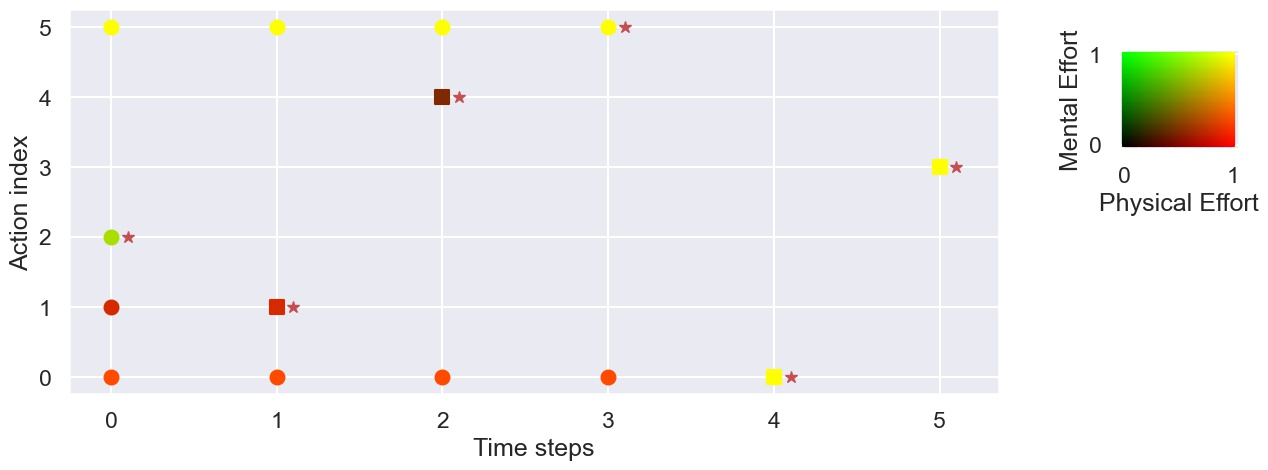
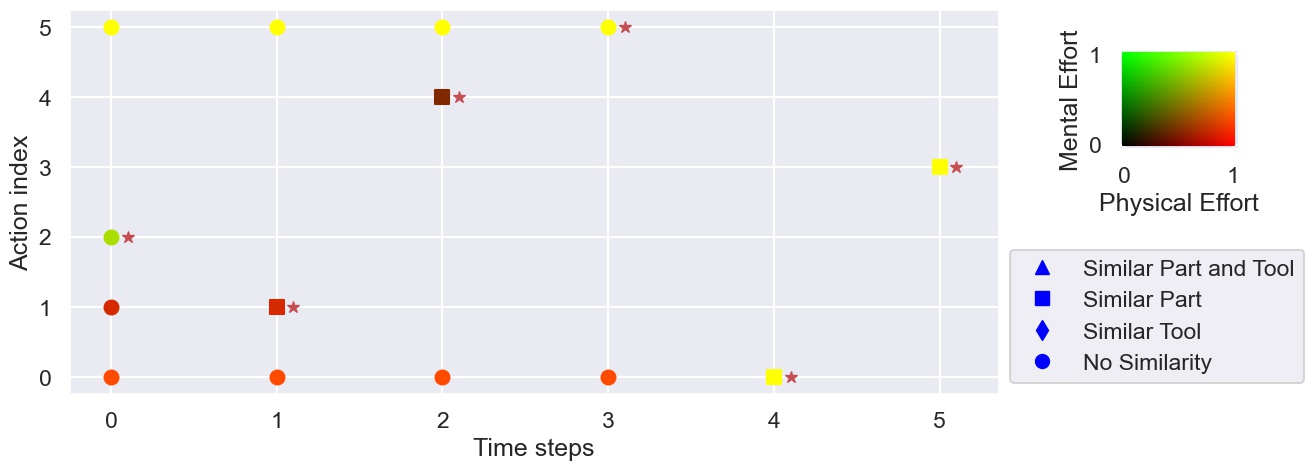
Added marker legend

diff --git a/src/visualize.py b/src/visualize.py
@@ -1,6 +1,7 @@
 import numpy as np
 import seaborn as sns
 from matplotlib import pyplot as plt
+import matplotlib.lines as mlines
 
 def visualize_demo_2(task, demo, idx, prefix):
 
@@ -70,6 +71,7 @@ def visualize_demo_2(task, demo, idx, prefix):
         available_actions.remove(take_action)
         prev_a = take_action
 
+    add_marker_legend()
     add_color_legend(fig)
 
     plt.savefig("visualizations/"+prefix+"_user" + str(idx) + ".jpg", bbox_inches='tight')
@@ -183,4 +185,16 @@ def add_color_legend(fig):
         ax = fig.add_axes([1, 0.6, 0.1, 0.2])
         ax.set_xlabel('Physical Effort')
         ax.set_ylabel('Mental Effort')
-        ax.scatter(x, y, s=2, c=c, marker='s')
+        ax.scatter(x, y, s=1, c=c, marker='s')
+
+def add_marker_legend():
+    no = mlines.Line2D([], [], color='blue', marker='o', linestyle='None',
+                          markersize=10, label='No Similarity')
+    tool = mlines.Line2D([], [], color='blue', marker='d', linestyle='None',
+                            markersize=10, label='Similar Tool')
+    part = mlines.Line2D([], [], color='blue', marker='s', linestyle='None',
+                            markersize=10, label='Similar Part')
+    part_and_tool = mlines.Line2D([], [], color='blue', marker='^', linestyle='None',
+                            markersize=10, label='Similar Part and Tool')
+
+    plt.legend(handles=[part_and_tool, part, tool, no], bbox_to_anchor=(1,0), loc="lower left")
